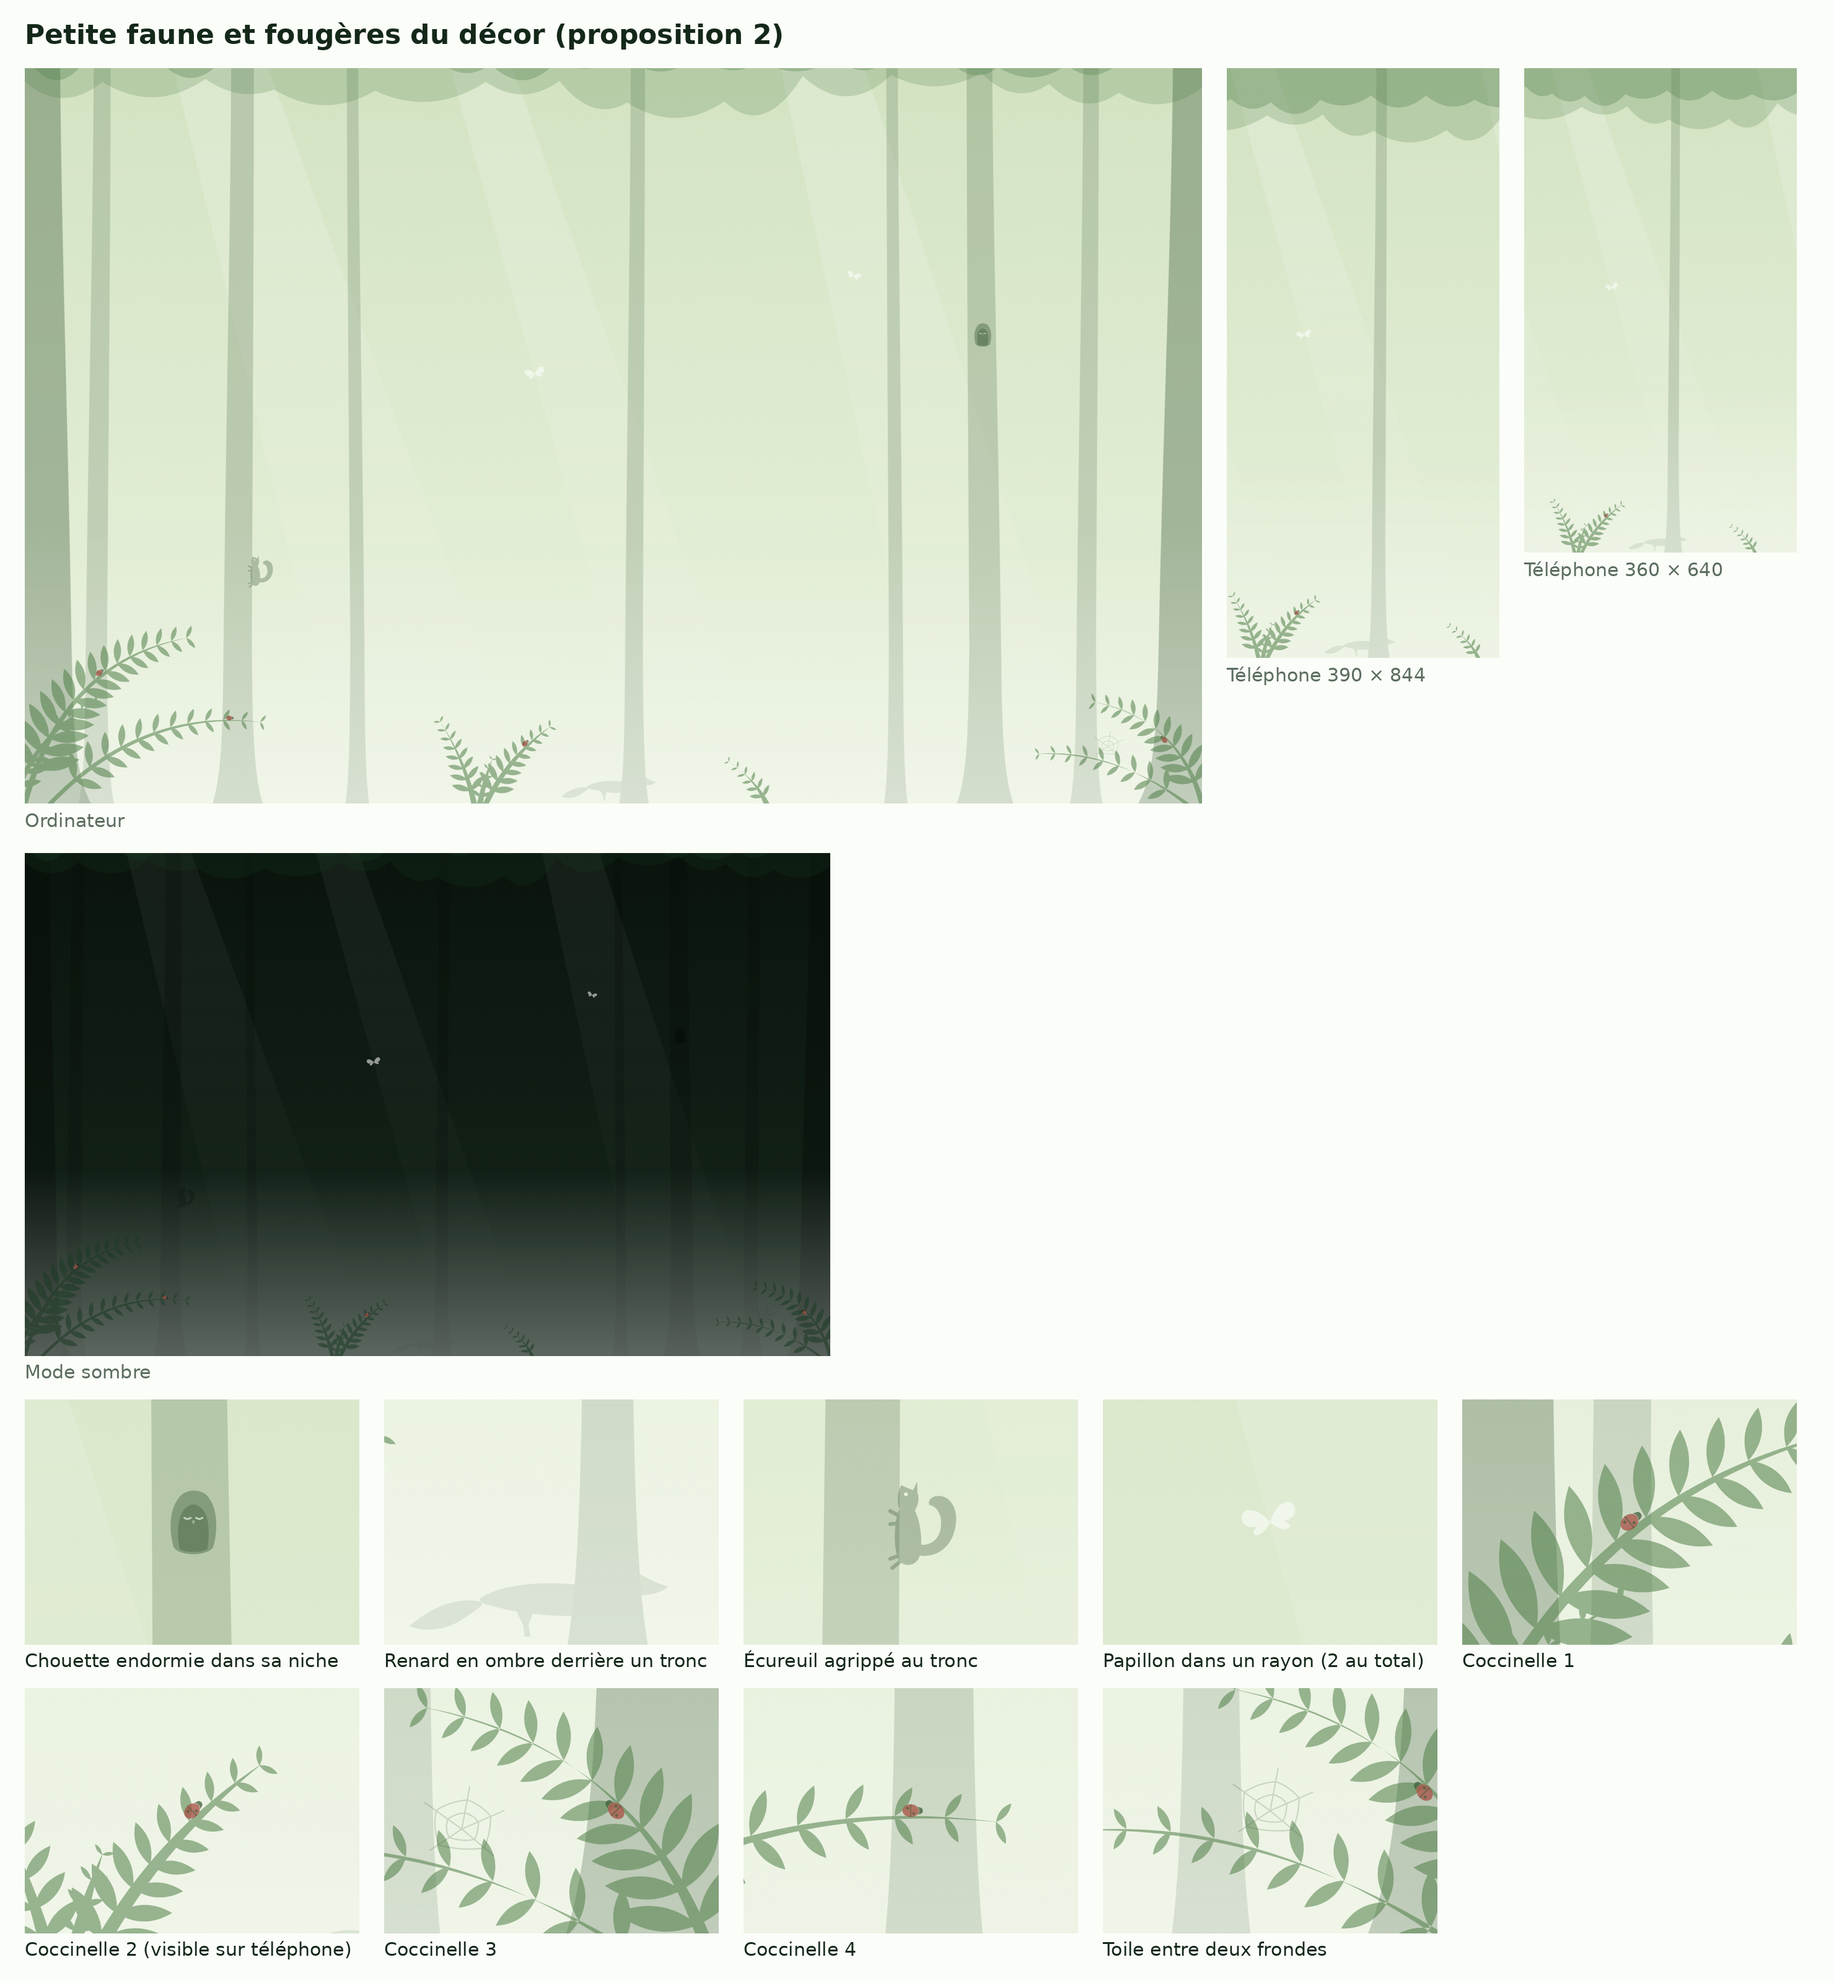
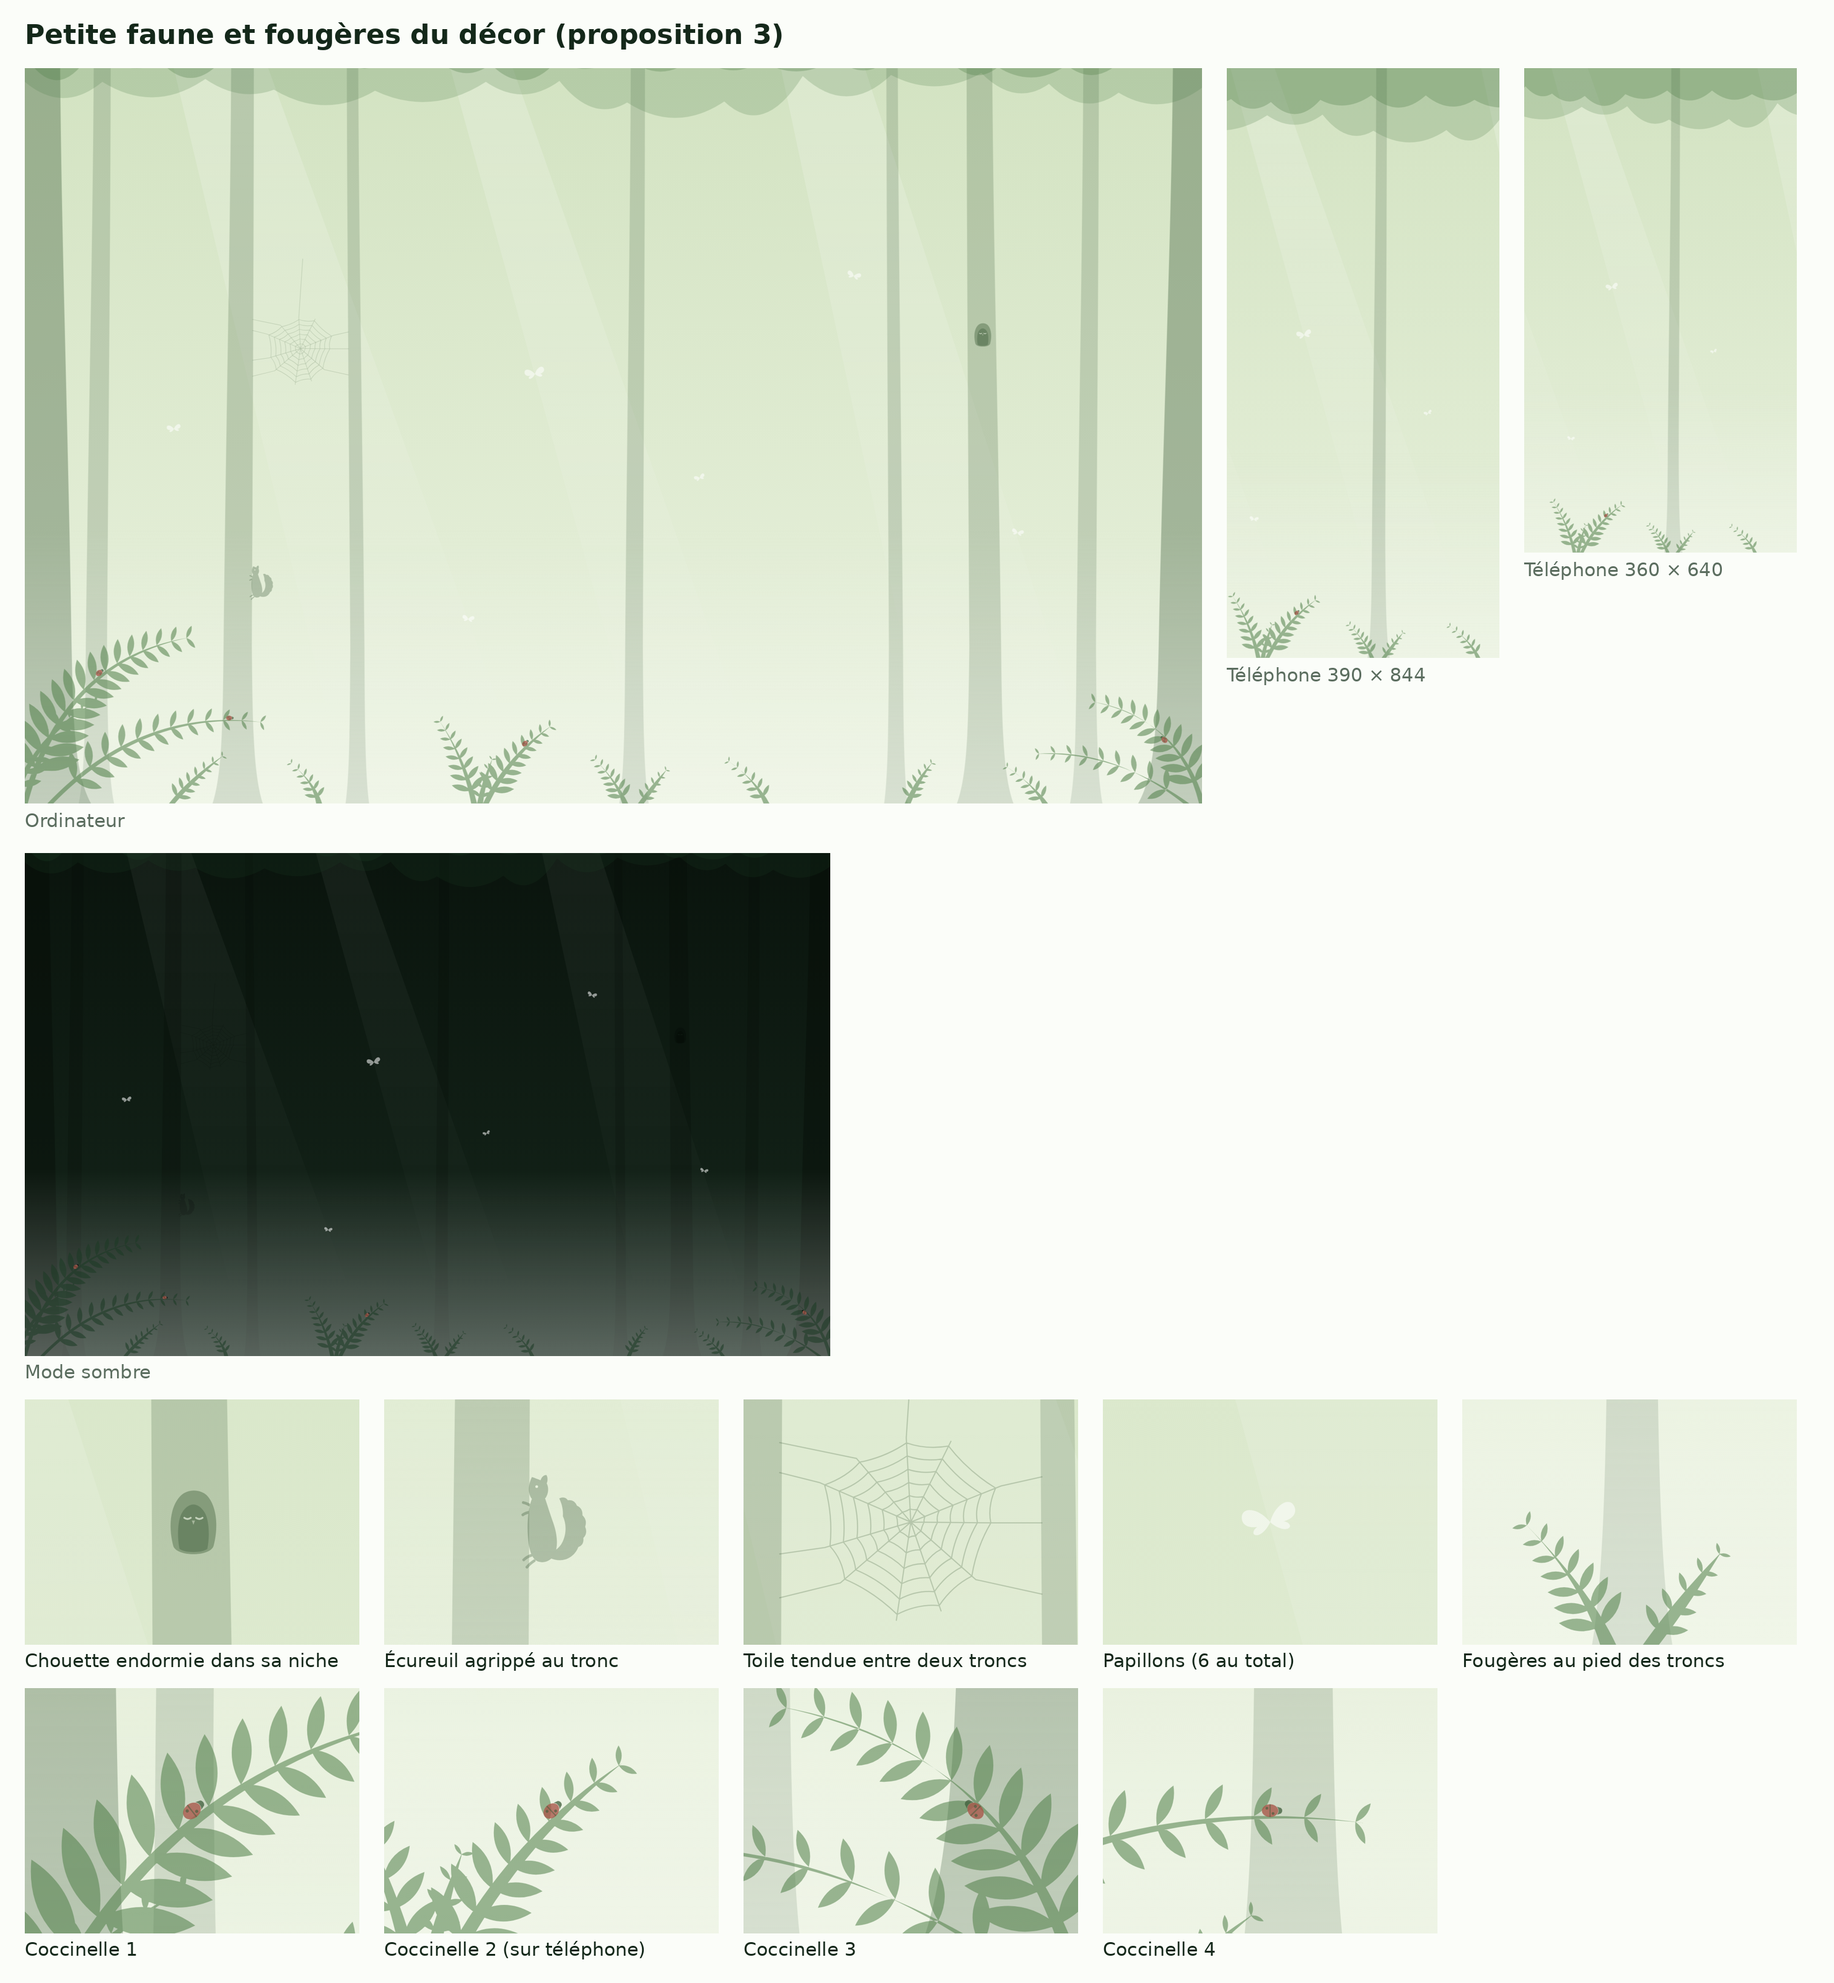
Maquette : petite faune, proposition 3 (sans renard, écureuil redessiné, grande toile, papillons et fougères au sol)
Claude-Session: https://claude.ai/code/session_0199VJBRxiwMCtFFmdBjP1Ex

diff --git a/outils/faune.py b/outils/faune.py
@@ -1,7 +1,7 @@
 """Petite faune du décor de fond (proposition) et fougères réparties sans symétrie.
 Tout est en silhouettes, dans les teintes et transparences du sous-bois ; coordonnées du décor (1200 × 800).
-Trois calques : FOND (renard, derrière un tronc lointain, masqué par lui), ARBRES (niche de chouette,
-écureuil, sur les troncs proches), DEVANT (coccinelles sur les frondes, papillons, toile)."""
+Trois calques : FOND (toile tendue entre deux troncs), ARBRES (niche de chouette, écureuil, sur les troncs
+proches), DEVANT (coccinelles sur les frondes, papillons)."""
 import math,sys,os
 sys.path.insert(0,os.path.dirname(os.path.abspath(__file__)))
 import io,contextlib
@@ -15,16 +15,11 @@ def qpt(x0,y0,x1,y1,cx,cy,t):
 FRONDES=[(0,800,190,628,40,640,15,50),(26,800,268,722,128,690,12,32),(-12,800,92,688,8,720,9,26),      # gauche
          (1200,800,1070,694,1172,702,11,34),(1184,800,1012,752,1100,736,9,24),                            # droite, plus basse
          (458,800,416,706,444,744,8,22),(470,800,548,714,494,744,9,25),(464,800,482,744,466,772,5,13),    # centre-gauche (téléphone)
-         (756,800,706,750,742,770,6,15)]                                                                  # centre-droit, seule
+         (756,800,706,750,742,770,6,15),                                                                  # centre-droit, seule
+         (150,800,214,744,170,770,7,16),(300,800,262,752,292,772,6,14),                                   # sol, à gauche
+         (612,800,574,748,600,772,7,17),(628,800,662,758,640,778,5,12),                                   # pied du tronc central
+         (900,800,932,752,908,772,6,14),(1040,800,990,756,1025,776,6,15)]                                 # sol, à droite
 FR=''.join(fronde(*a) for a in FRONDES)
-# ---------- Renard : ombre qui passe derrière un tronc lointain (x=621), la tête qui dépasse
-RENARD=('M-30-14C-24-19-8-21 6-19.5C13-19 18-20.5 22-24L23.6-31.5 26.4-25.6 29-30.6 29.8-23.6C32.4-22 35.6-20.2 40.6-18.8'
-        'C37.6-16.2 33.6-15.4 29.6-15.6C27.6-12.6 24.6-10.8 21-10.2L22.4-4 21.4 0H19.2L19.4-4 17.4-8.8C9-7.6 0-7.4-10-8.6'
-        'L-11.6-4.4-10.8 0H-13L-13.6-4.4-16-9.4C-21-10.4-25.6-11.6-29-12.6Z'
-        'M-29-13C-37-15-47-12-56-4C-51-1.6-43-2.4-37-6C-33.6-8-31-10.4-29-11.6Z')
-FOND=(f'<mask id="m-renard" maskUnits="userSpaceOnUse" x="0" y="0" width="1200" height="800"><rect width="1200" height="800" fill="#fff"/>'
-      f'<path d="{tronc(621,10,4,1.5,-10,[])}" fill="#000"/></mask>'
-      f'<g mask="url(#m-renard)"><path transform="translate(603 797)" d="{RENARD}" fill="var(--t1)" opacity=".17"/></g>')
 # ---------- Niche de chouette, creusée dans le tronc proche x=979 (axe ≈ 976 à cette hauteur, demi-largeur ≈ 13)
 CHOUETTE=('<g transform="translate(976.5 322)">'
   '<path d="M-7.5 9C-9.4 2-8.8-6-4.6-10C-2-12.4 2.4-12.4 5-10C8.8-6 9.4 2 7.5 9C6 13-6 13-7.5 9Z" fill="var(--t1)" opacity=".42"/>'
@@ -32,12 +27,13 @@ CHOUETTE=('<g transform="translate(976.5 322)">'
   '<path d="M-3.4-1.6Q-2.2-.7-1-1.6M1-1.6Q2.2-.7 3.4-1.6" fill="none" stroke="var(--bg2)" stroke-width=".7" stroke-linecap="round" opacity=".7"/>'
   '<path d="M-.6-.6L0 1 .6-.6Z" fill="var(--bg2)" opacity=".45"/></g>')
 # ---------- Écureuil agrippé à la verticale au tronc proche x=217 (bord droit ≈ 231 à cette hauteur), tête vers le haut
-ECUREUIL=('<g transform="translate(230 578) scale(.95)" fill="var(--t1)" opacity=".36">'
-  '<path d="M8.4-4C16-2 23-7 24-16C25-23 21-28 16-27C14-26.6 13-25 13.6-23.6C17-23 19-19 18-14C17-9 13-7.4 9-8Z"/>'
-  '<path d="M1.6-21.6C-.4-16-.4-8 1-3C2.6 1 8 1 9.6-3C11.2-8 10.4-16.6 7.8-21.6Z"/>'
-  '<path d="M2.4-21C.8-23.6.8-28.2 2.6-31.4C4-30.6 5.8-30 7.2-29.4L8.8-32.8 8.9-28.4C9.7-26.8 9.5-23.4 7.6-21Z"/>'
-  '<circle cx="4.4" cy="-27.8" r=".75" fill="var(--bg2)"/>'
-  '<path d="M1.6-19.4-1.8-21.2M1.2-16.4-1.8-16M1.4-3.6-1.8-2.4M2-1.2-1 1.2" stroke="var(--t1)" stroke-width="1.5" stroke-linecap="round"/></g>')
+ECUREUIL=('<g transform="translate(230.5 592) scale(.85)" fill="var(--t1)" opacity=".36">'
+  '<path d="M11-4C16-2 21-4 23-9Q25.6-10 25.2-13Q27.2-15 26-18Q27-21 24.8-23Q25-26 22.4-27.2Q21.2-30 18.4-29.6Q17-31.6 14.6-30.4'
+  'C15.8-28 16.4-25.4 16.2-22.6C17.6-19.6 17.8-16 16.6-12.6C15.6-9.6 13.4-7.4 11-7Z"/>'
+  '<path d="M2.5-30C1-26 .4-20 .8-14C1.2-8 2.4-4 5-2.8C8-1.6 11.4-3 12.8-6.4C14.2-10 13.6-15 12-19.6C10.6-23.6 9.4-27.4 8.4-30.4C6.6-31.8 4-31.8 2.5-30Z"/>'
+  '<path d="M2.6-30.2C1.4-31.6 1-34 1.4-36.2C1.6-37.4 2-38.6 2.6-39.8C3.8-39.4 5.2-38.9 6.4-38.4C6.9-39.9 7.9-40.8 9-40.7C9.6-39.6 9.6-38.2 9.1-37C10.1-35.2 9.9-32.5 8.6-30.6C6.6-29.6 4.4-29.6 2.6-30.2Z"/>'
+  '<circle cx="4.7" cy="-35.6" r=".6" fill="var(--bg2)"/>'
+  '<path d="M2.4-27C1.2-27.8-.2-28.4-1.2-28.6M1.8-24.4C.6-24.2-.6-23.8-1.4-23.2M2.4-5.4C1-5-.2-4.2-1-3.4M3.6-3C2.4-2.2 1.2-1.2.4-.2" fill="none" stroke="var(--t1)" stroke-width="1.2" stroke-linecap="round"/></g>')
 # ---------- Coccinelles posées sur un rachis (position et sens calculés sur la courbe de la fronde)
 def cocci(i,t,dec=2.4,s=1):
     a=FRONDES[i];(x,y),ang=qpt(*a[:6],t);n=math.radians(ang-90);x+=dec*math.cos(n);y+=dec*math.sin(n)
@@ -50,13 +46,29 @@ COCCINELLES=cocci(0,.55)+cocci(6,.62,2.2,.9)+cocci(3,.42,2.4,.95)+cocci(1,.78,2,
 def papillon(x,y,a,s): return (f'<g transform="translate({x} {y}) rotate({a}) scale({s})" fill="#fff" opacity=".55">'
   '<path d="M0 0C-3-6-9-8-10-4C-11 0-6 2 0 0Z"/><path d="M0 0C3-6 9-8 10-4C11 0 6 2 0 0Z"/>'
   '<path d="M0 0C-2 3-6 5-7 3C-7 1-4 0 0 0Z"/><path d="M0 0C2 3 6 5 7 3C7 1 4 0 0 0Z"/></g>')
-PAPILLONS=papillon(520,362,-12,1)+papillon(845,262,16,.7)
-# ---------- Toile accrochée entre les deux frondes de droite
-TOILE=('<g transform="translate(1104 742)" fill="none" stroke="var(--t1)" stroke-width=".5" opacity=".2">'
-  '<path d="M0 0L-14-10M0 0L3-16M0 0L16-7M0 0L12 10M0 0L-12 8"/>'
-  '<path d="M-5.2-3.8Q-1.8-6 1.3-6Q4.4-5.2 6.2-2.6Q6.2 .9 4.8 3.9Q0 4.8-4.6 3.2Q-6.5 0-5.2-3.8Z'
-  'M-9.6-7Q-3.5-10.8 2.4-10.8Q7.8-8.6 10.8-4.8Q10.8 1.7 8.3 7.1Q0 8.3-8.5 6Q-10.8 0-9.6-7Z"/></g>')
+PAPILLONS=(papillon(520,362,-12,1)+papillon(845,262,16,.7)+papillon(452,612,8,.6)+papillon(688,468,-20,.55)
+           +papillon(1012,524,12,.6)+papillon(152,418,-8,.7))
+# ---------- Toile : grande, tendue entre le tronc proche x=217 (bord droit ≈ 232) et le tronc lointain x=339 (bord gauche ≈ 330)
+def toile(cx,cy,R,n=11,tours=6,g=232,dr=330):
+    import random;h=random.Random(7)
+    A=[math.radians(-90+360*k/n+h.uniform(-9,9)) for k in range(n)];L=[R*h.uniform(.86,1.04) for _ in A]
+    P=lambda k,r:(cx+r*math.cos(A[k%n]),cy+r*math.sin(A[k%n]))
+    d=''.join(f'M{f(cx)} {f(cy)}L{f(P(k,L[k])[0])} {f(P(k,L[k])[1])}' for k in range(n))       # rayons
+    for t in range(1,tours+1):                                                               # spirale, fils un peu détendus
+        q=t/tours*.94
+        for k in range(n):
+            a=P(k,L[k]*q);b=P(k+1,L[(k+1)%n]*q);m=((a[0]+b[0])/2,(a[1]+b[1])/2);c=(m[0]+(cx-m[0])*.07,m[1]+(cy-m[1])*.07)
+            d+=f'M{f(a[0])} {f(a[1])}Q{f(c[0])} {f(c[1])} {f(b[0])} {f(b[1])}'
+    # amarres : des rayons extérieurs jusqu'aux deux troncs, et un fil qui remonte
+    for k in range(n):
+        x,y=P(k,L[k])
+        if x<cx-R*.55:d+=f'M{f(x)} {f(y)}L{g} {f(y+(y-cy)*.25)}'
+        elif x>cx+R*.55:d+=f'M{f(x)} {f(y)}L{dr} {f(y+(y-cy)*.25)}'
+    top=min(range(n),key=lambda k:P(k,L[k])[1]);x,y=P(top,L[top]);d+=f'M{f(x)} {f(y)}L{f(x+4)} {f(y-60)}'
+    return f'<path d="{d}" fill="none" stroke="var(--t1)" stroke-width=".42" stroke-linecap="round" opacity=".26"/>'
+TOILE=toile(281,336,36)
+FOND=TOILE
 ARBRES=CHOUETTE+ECUREUIL
-DEVANT=COCCINELLES+PAPILLONS+TOILE
+DEVANT=COCCINELLES+PAPILLONS
 if __name__=='__main__':
     import json;json.dump({'FR':FR,'FOND':FOND,'ARBRES':ARBRES,'DEVANT':DEVANT},open(sys.argv[1],'w'))
